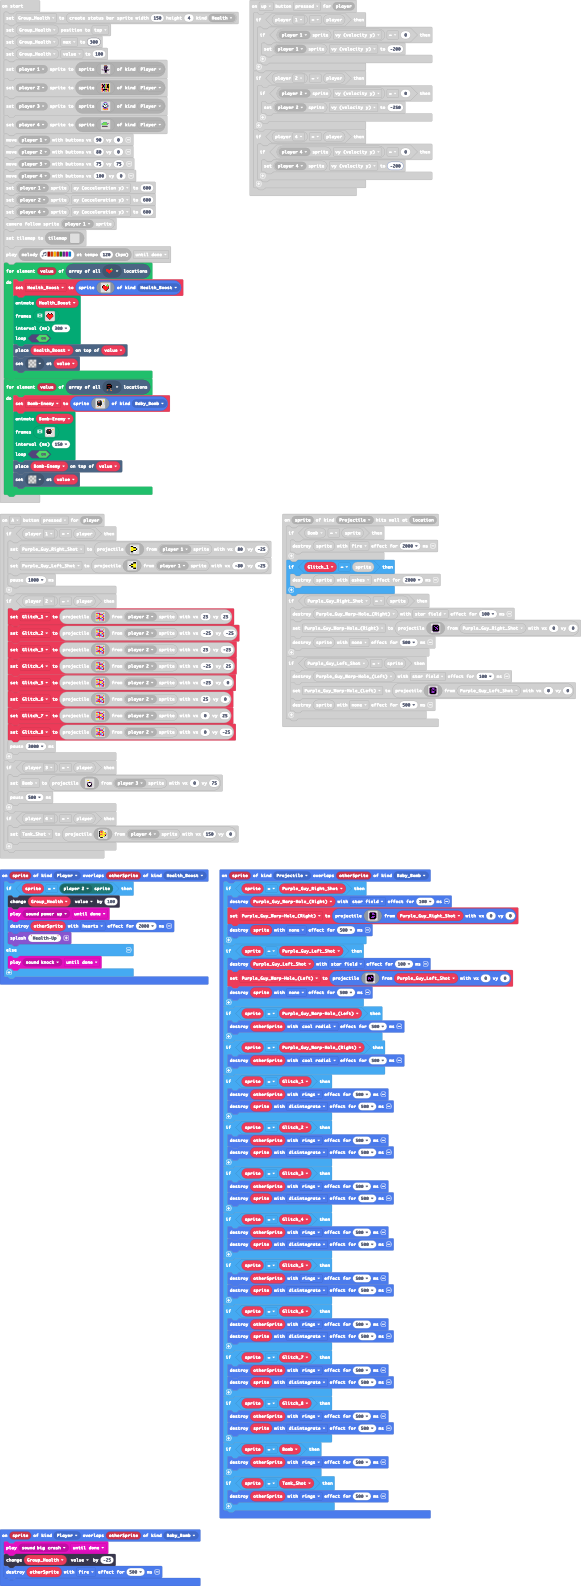
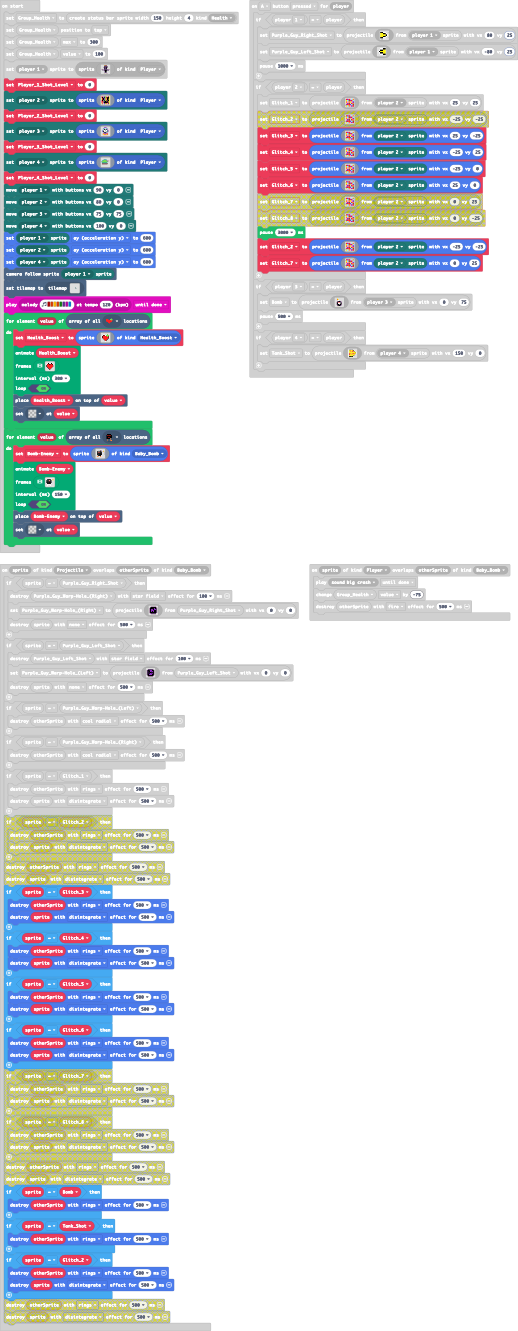
Update main.blocks, main.ts, tilemap.g.jres, tilemap.g.ts

diff --git a/tilemap.g.ts b/tilemap.g.ts
@@ -12,24 +12,24 @@ namespace myTiles {
     helpers._registerFactory("tilemap", function(name: string) {
         switch(helpers.stringTrim(name)) {
             case "level1":
[1 lines of base64/hex data omitted]
-.........22..........................................................
-.........22..........................................................
-.........22..........................................................
-.........22..........................................................
-.........22..........................................................
-.........22..........................................................
-.........22..........................................................
-.........22..........................................................
-.........22..........................................................
-.........22..........................................................
-.........22..........................................................
-.....................................................................
-.....................................................................
-.........22..........................................................
-.........22..........................................................
-22222222222222...222222...222222.....................................
-`, [myTiles.transparency16,sprites.dungeon.greenOuterNorthWest,sprites.dungeon.greenOuterNorth0,sprites.dungeon.greenOuterNorthEast,sprites.dungeon.greenOuterSouthWest,sprites.dungeon.greenOuterSouthEast,sprites.dungeon.greenOuterEast0,sprites.dungeon.greenOuterWest0,sprites.dungeon.greenInnerSouthEast,sprites.dungeon.greenInnerSouthWest,myTiles.tile1,myTiles.tile2,myTiles.tile3], TileScale.Sixteen);
[1 lines of base64/hex data omitted]
+.........22...........................22.............................
+.........22...........................22.............................
+.........22...........................22.............................
+.........22...........................22.............................
+.........22...........................22.............................
+.........22...........................22.............................
+.........22...........................22.............................
+.........22...........................22.............................
+.........22...........................22.............................
+.........22...........................22.............................
+.........22...........................22.............................
+......................................22..22.........................
+......................................22..22....22222................
+.........22..................................2.22....................
+.........22.....................................2....................
+22222222222222...222222...222222....2222222222222....................
+`, [myTiles.transparency16,sprites.dungeon.greenOuterNorthWest,sprites.dungeon.greenOuterNorth0,sprites.dungeon.greenOuterNorthEast,sprites.dungeon.greenOuterSouthWest,sprites.dungeon.greenOuterSouthEast,sprites.dungeon.greenOuterEast0,sprites.dungeon.greenOuterWest0,sprites.dungeon.greenInnerSouthEast,sprites.dungeon.greenInnerSouthWest,myTiles.tile1,myTiles.tile2,myTiles.tile3,sprites.dungeon.greenOuterNorth1], TileScale.Sixteen);
         }
         return null;
     })

diff --git a/main.ts b/main.ts
@@ -83,14 +83,6 @@ sprites.onOverlap(SpriteKind.Projectile, SpriteKind.Baby_Bomb, function (sprite,
         sprites.destroy(otherSprite, effects.rings, 500)
         sprites.destroy(sprite, effects.disintegrate, 500)
     }
-    if (sprite == Glitch_7) {
-        sprites.destroy(otherSprite, effects.rings, 500)
-        sprites.destroy(sprite, effects.disintegrate, 500)
-    }
-    if (sprite == Glitch_8) {
-        sprites.destroy(otherSprite, effects.rings, 500)
-        sprites.destroy(sprite, effects.disintegrate, 500)
-    }
     if (sprite == Bomb) {
         sprites.destroy(otherSprite, effects.rings, 500)
     }
@@ -116,14 +108,14 @@ mp.onButtonEvent(mp.MultiplayerButton.A, ControllerButtonEvent.Pressed, function
             5 5 5 5 f 1 
             5 5 f f 1 . 
             f f 1 1 . . 
-            `, mp.getPlayerSprite(mp.playerSelector(mp.PlayerNumber.One)), 80, -25)
+            `, mp.getPlayerSprite(mp.playerSelector(mp.PlayerNumber.One)), 80, 25)
         Purple_Guy_Left_Shot = sprites.createProjectileFromSprite(img`
             . . 1 1 f f 
             . 1 f f 5 5 
             1 f 5 5 5 5 
             . 1 f f 5 5 
             . . 1 1 f f 
-            `, mp.getPlayerSprite(mp.playerSelector(mp.PlayerNumber.One)), -80, -25)
+            `, mp.getPlayerSprite(mp.playerSelector(mp.PlayerNumber.One)), -80, 25)
         pause(1000)
     }
     if (mp.playerSelector(mp.PlayerNumber.Two) == player2) {
@@ -183,14 +175,6 @@ mp.onButtonEvent(mp.MultiplayerButton.A, ControllerButtonEvent.Pressed, function
             a 2 2 a 9 e 
             5 9 4 3 a 2 
             `, mp.getPlayerSprite(mp.playerSelector(mp.PlayerNumber.Two)), 0, 25)
-        Glitch_8 = sprites.createProjectileFromSprite(img`
-            2 a 2 3 9 4 
-            5 9 e a 2 9 
-            4 3 4 5 3 a 
-            3 a e 9 2 4 
-            a 2 2 a 9 e 
-            5 9 4 3 a 2 
-            `, mp.getPlayerSprite(mp.playerSelector(mp.PlayerNumber.Two)), 0, -25)
         pause(3000)
     }
     if (mp.playerSelector(mp.PlayerNumber.Three) == player2) {
@@ -288,13 +272,12 @@ mp.onButtonEvent(mp.MultiplayerButton.Up, ControllerButtonEvent.Pressed, functio
 })
 sprites.onOverlap(SpriteKind.Player, SpriteKind.Baby_Bomb, function (sprite, otherSprite) {
     music.play(music.melodyPlayable(music.bigCrash), music.PlaybackMode.UntilDone)
-    Group_Health.value += -25
+    Group_Health.value += -75
     sprites.destroy(otherSprite, effects.fire, 500)
 })
+let Glitch_7: Sprite = null
 let Tank_Shot: Sprite = null
 let Bomb: Sprite = null
-let Glitch_8: Sprite = null
-let Glitch_7: Sprite = null
 let Glitch_6: Sprite = null
 let Glitch_5: Sprite = null
 let Glitch_4: Sprite = null
@@ -313,7 +296,9 @@ Group_Health.positionDirection(CollisionDirection.Top)
 Group_Health.max = 300
 Group_Health.value = 100
 mp.setPlayerSprite(mp.playerSelector(mp.PlayerNumber.One), sprites.create(assets.image`Purple Guy`, SpriteKind.Player))
+let Player_1_Shot_Level = 0
 mp.setPlayerSprite(mp.playerSelector(mp.PlayerNumber.Two), sprites.create(assets.image`Error_Block`, SpriteKind.Player))
+let Player_2_Shot_Level = 0
 mp.setPlayerSprite(mp.playerSelector(mp.PlayerNumber.Three), sprites.create(img`
     . . . . . a a a a a . . . . . 
     . . . . a a a a a a a . . . . 
@@ -333,7 +318,9 @@ mp.setPlayerSprite(mp.playerSelector(mp.PlayerNumber.Three), sprites.create(img`
     . . 2 5 5 4 4 4 4 4 5 5 2 . . 
     . . . 2 2 5 5 5 5 5 2 2 . . . 
     `, SpriteKind.Player))
+let Player_3_Shot_Level = 0
 mp.setPlayerSprite(mp.playerSelector(mp.PlayerNumber.Four), sprites.create(assets.image`Tank`, SpriteKind.Player))
+let Player_4_Shot_Level = 0
 mp.moveWithButtons(mp.playerSelector(mp.PlayerNumber.One), 90, 0)
 mp.moveWithButtons(mp.playerSelector(mp.PlayerNumber.Two), 80, 0)
 mp.moveWithButtons(mp.playerSelector(mp.PlayerNumber.Three), 75, 75)
